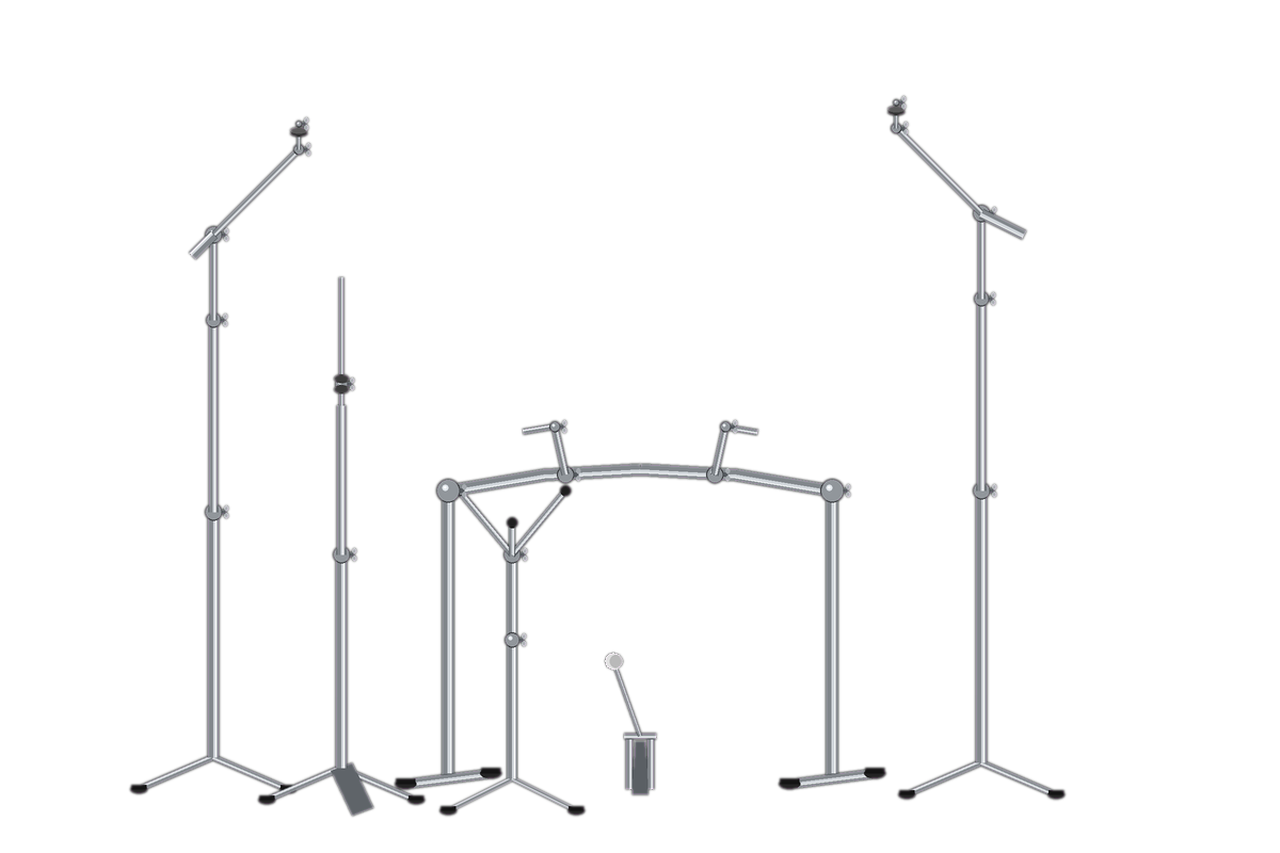
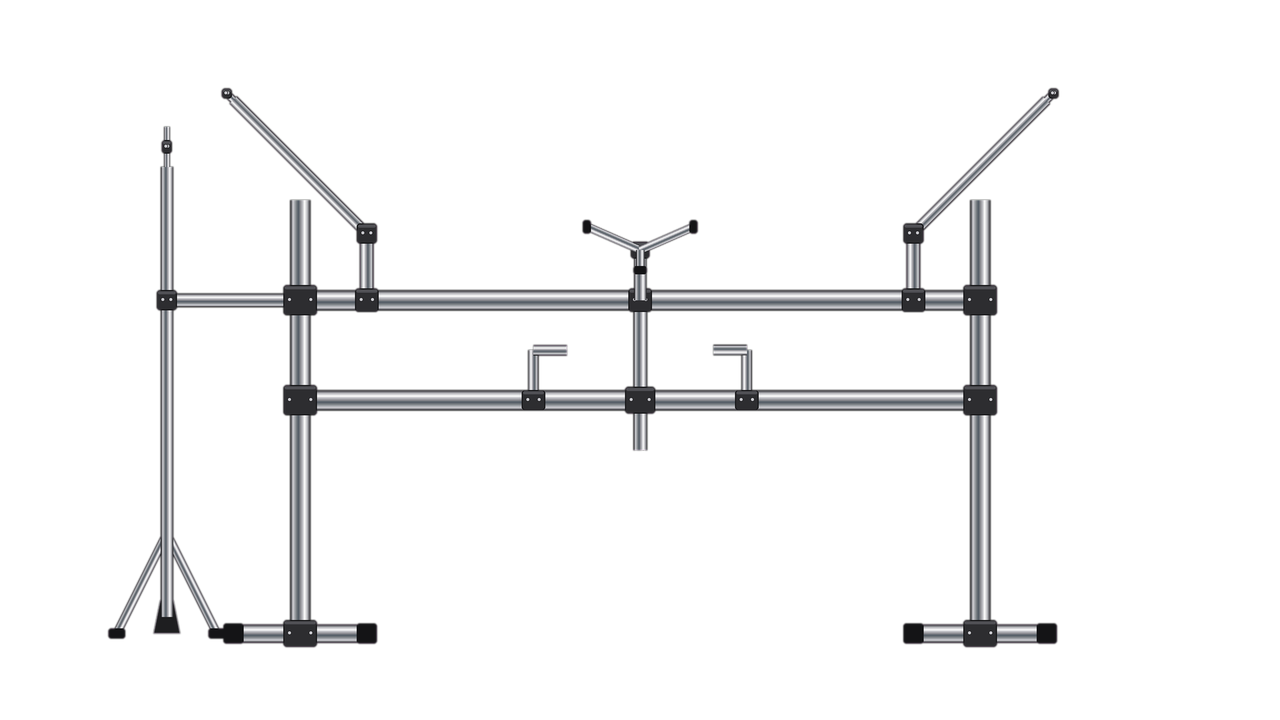
feat: connected rack, kit-aligned pieces, bass pedal + decorative bass drum
- Replace the skeleton with a connected drum-rack render (cymbal arms joined to
  one central frame) and reposition every zone onto its rack mount so the pieces
  read as one assembled kit.
- Lane 6 ("Bass Drum") is now the clickable right bass pedal; the bass drum is
  drawn as non-interactive decoration at the kit's center.
- Add a per-zone FlipHorizontal flag and mirror the left pedal (lane 3) so its
  beater faces the other way.

diff --git a/DTXMania.Game/Lib/Stage/DrumConfig/DrumKitLayout.cs b/DTXMania.Game/Lib/Stage/DrumConfig/DrumKitLayout.cs
@@ -22,9 +22,12 @@ namespace DTXMania.Game.Lib.Stage.DrumConfig
         public float CenterY { get; }
         public float RadiusX { get; }
         public float RadiusY { get; }
+        /// <summary>Draw the piece mirrored left-to-right (e.g. the left bass pedal faces the other way).</summary>
+        public bool FlipHorizontal { get; }
 
         public DrumZone(int lane, string name, DrumZoneShape shape,
-                        float centerX, float centerY, float radiusX, float radiusY)
+                        float centerX, float centerY, float radiusX, float radiusY,
+                        bool flipHorizontal = false)
         {
             Lane = lane;
             Name = name;
@@ -33,6 +36,7 @@ namespace DTXMania.Game.Lib.Stage.DrumConfig
             CenterY = centerY;
             RadiusX = radiusX;
             RadiusY = radiusY;
+            FlipHorizontal = flipHorizontal;
         }
 
         /// <summary>Ellipse containment test in design space.</summary>
@@ -55,16 +59,19 @@ namespace DTXMania.Game.Lib.Stage.DrumConfig
 
         public static IReadOnlyList<DrumZone> Zones { get; } = new[]
         {
-            new DrumZone(5, KeyBindings.GetLaneName(5), DrumZoneShape.Cymbal, 166f, 158f, 70f, 22f),
-            new DrumZone(0, KeyBindings.GetLaneName(0), DrumZoneShape.Cymbal, 435f,  86f, 75f, 22f),
-            new DrumZone(9, KeyBindings.GetLaneName(9), DrumZoneShape.Cymbal, 1024f, 115f, 78f, 22f),
-            new DrumZone(7, KeyBindings.GetLaneName(7), DrumZoneShape.Drum,   525f, 295f, 42f, 42f),
-            new DrumZone(8, KeyBindings.GetLaneName(8), DrumZoneShape.Drum,   755f, 295f, 46f, 46f),
-            new DrumZone(4, KeyBindings.GetLaneName(4), DrumZoneShape.Drum,   346f, 432f, 50f, 50f),
-            new DrumZone(1, KeyBindings.GetLaneName(1), DrumZoneShape.Drum,  1037f, 418f, 56f, 56f),
-            new DrumZone(6, KeyBindings.GetLaneName(6), DrumZoneShape.Kick,   627f, 526f, 80f, 80f),
-            new DrumZone(2, KeyBindings.GetLaneName(2), DrumZoneShape.HiHatPedal, 179f, 619f, 48f, 18f),
-            new DrumZone(3, KeyBindings.GetLaneName(3), DrumZoneShape.Pedal,  422f, 641f, 48f, 18f),
+            // Positions roughly follow the mounts on the connected rack skeleton (drumkit_skeleton.png).
+            new DrumZone(5, KeyBindings.GetLaneName(5), DrumZoneShape.Cymbal,     160f, 178f, 70f, 30f),  // Hi-Hat (left stand)
+            new DrumZone(0, KeyBindings.GetLaneName(0), DrumZoneShape.Cymbal,     330f,  92f, 72f, 28f),  // Splash/Crash (left arm)
+            new DrumZone(9, KeyBindings.GetLaneName(9), DrumZoneShape.Cymbal,    1130f, 110f, 75f, 28f),  // Ride (right arm)
+            new DrumZone(7, KeyBindings.GetLaneName(7), DrumZoneShape.Drum,       545f, 300f, 46f, 46f),  // High Tom
+            new DrumZone(8, KeyBindings.GetLaneName(8), DrumZoneShape.Drum,       735f, 300f, 50f, 50f),  // Low Tom
+            new DrumZone(4, KeyBindings.GetLaneName(4), DrumZoneShape.Drum,       380f, 430f, 54f, 54f),  // Snare
+            new DrumZone(1, KeyBindings.GetLaneName(1), DrumZoneShape.Drum,      1015f, 430f, 60f, 60f),  // Floor Tom (right)
+            // Lane 6 ("Bass Drum") is the clickable right bass pedal; the bass drum itself is drawn as decoration.
+            new DrumZone(6, KeyBindings.GetLaneName(6), DrumZoneShape.Pedal,      712f, 600f, 52f, 36f),  // Bass pedal (right)
+            new DrumZone(2, KeyBindings.GetLaneName(2), DrumZoneShape.HiHatPedal, 175f, 598f, 52f, 42f),  // Hi-Hat Foot (left)
+            // Left pedal mirrors the right one so its beater faces the other way.
+            new DrumZone(3, KeyBindings.GetLaneName(3), DrumZoneShape.Pedal,      560f, 600f, 52f, 36f, flipHorizontal: true), // Left Pedal
         };
 
         /// <summary>Returns the lane of the first zone containing the design-space point, or -1.</summary>

diff --git a/DTXMania.Game/Lib/Stage/DrumConfigStage.cs b/DTXMania.Game/Lib/Stage/DrumConfigStage.cs
@@ -34,6 +34,7 @@ namespace DTXMania.Game.Lib.Stage
         private DrumCapturePopup? _popup;
         private ITexture? _background;
         private ITexture? _skeleton;
+        private ITexture? _bassDrum;   // decorative only; the bass pedal (lane 6) is the click target
 
         // Dark UI text, for legibility on the bright background image.
         private static readonly Color DarkText = new(26, 30, 46);
@@ -74,6 +75,10 @@ namespace DTXMania.Game.Lib.Stage
             // Bare drum-kit hardware drawn behind the pieces so the stage reads as a whole kit.
             try { _skeleton = _resourceManager.LoadTexture(TexturePath.DrumKitSkeleton); }
             catch { _skeleton = null; }
+
+            // Decorative bass drum (the clickable target for lane 6 is the bass pedal in front of it).
+            try { _bassDrum = _resourceManager.LoadTexture(TexturePath.DrumPadKick); }
+            catch { _bassDrum = null; }
 
             _input = _game.InputManager; // BaseGame.InputManager is concretely InputManagerCompat
 
@@ -259,6 +264,15 @@ namespace DTXMania.Game.Lib.Stage
             if (_skeleton?.Texture != null)
                 _spriteBatch.Draw(_skeleton.Texture, new Rectangle(0, 0, vp.Width, vp.Height), Color.White * 0.9f);
 
+            // Decorative bass drum at the kit's center, behind the (clickable) bass pedals.
+            if (_bassDrum?.Texture != null)
+            {
+                float dsx = vp.Width / 1280f, dsy = vp.Height / 720f;
+                int bw = (int)(240 * dsx), bh = (int)(220 * dsy);
+                _spriteBatch.Draw(_bassDrum.Texture,
+                    new Rectangle((int)(640 * dsx) - (bw / 2), (int)(486 * dsy) - (bh / 2), bw, bh), Color.White);
+            }
+
             if (_font != null)
                 _font.DrawString(_spriteBatch, "DRUM MAPPING  -  click a piece, then hit your input.  Back: save & exit",
                     new Vector2(20, 16), DarkText);
@@ -390,6 +404,8 @@ namespace DTXMania.Game.Lib.Stage
             _background = null;
             _skeleton?.RemoveReference();
             _skeleton = null;
+            _bassDrum?.RemoveReference();
+            _bassDrum = null;
             _font?.RemoveReference();
             _font = null;
             _spriteBatch?.Dispose();
@@ -410,6 +426,8 @@ namespace DTXMania.Game.Lib.Stage
                 _background = null;
                 _skeleton?.RemoveReference();
                 _skeleton = null;
+                _bassDrum?.RemoveReference();
+                _bassDrum = null;
                 _renderer = null;
                 _whitePixel = null!;
                 _spriteBatch = null!;

diff --git a/DTXMania.Game/Lib/Stage/DrumConfig/DrumKitRenderer.cs b/DTXMania.Game/Lib/Stage/DrumConfig/DrumKitRenderer.cs
@@ -103,7 +103,8 @@ namespace DTXMania.Game.Lib.Stage.DrumConfig
                         spriteBatch.Draw(_circle, glow, HighlightColor * 0.6f);
                     }
 
-                    tex.Draw(spriteBatch, imgRect, null, Color.White, 0f, Vector2.Zero, SpriteEffects.None, 0f);
+                    var effects = zone.FlipHorizontal ? SpriteEffects.FlipHorizontally : SpriteEffects.None;
+                    tex.Draw(spriteBatch, imgRect, null, Color.White, 0f, Vector2.Zero, effects, 0f);
                 }
                 else
                 {